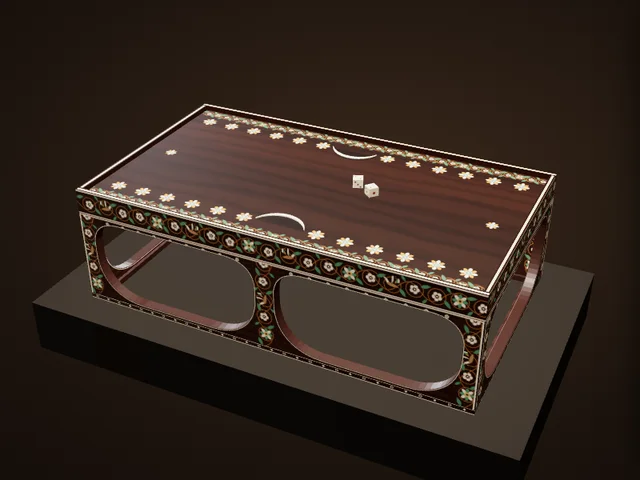
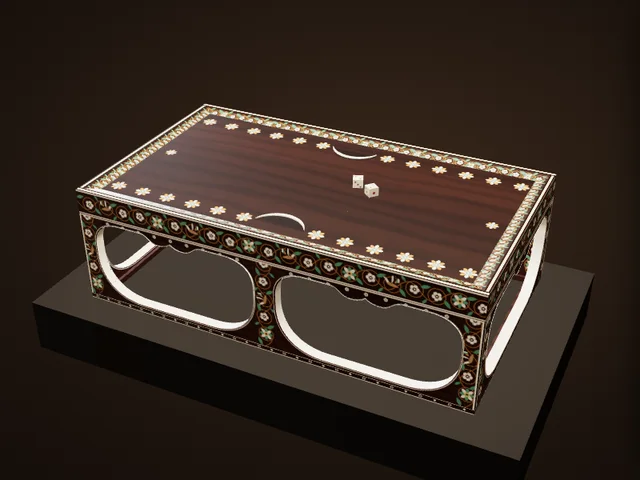
博物館：双六局の縁の斜面・開口部の垂れ飾り・象牙張りの切り口を全体写真に合わせて追加
Claude-Session: https://claude.ai/code/session_01EiWRAZTxRF5M5nk5vdR2jJ

diff --git a/atlas/museum/ex/sugoroku.js b/atlas/museum/ex/sugoroku.js
@@ -60,13 +60,9 @@
         K.grain(g, w, h, { a: '#331a11', b: '#26120b', seed: 44, sx: .3, sy: 9, warp: .2, pores: .003 });   // straight grain along the length
         let y = 0, sd = 3; const rnd = () => (sd = (sd * 16807) % 2147483647) / 2147483647;   // planks along the length, slightly different in tone
         while (y < h) { const ph = s * (4.5 + rnd() * 2.5); g.fillStyle = rnd() < .5 ? `rgba(0,0,0,${rnd() * .18})` : `rgba(120,50,30,${rnd() * .12})`; g.fillRect(0, y, w, ph); g.fillStyle = 'rgba(10,3,2,.5)'; g.fillRect(0, y, w, s * .04); y += ph; }
-        // a band of scroll inside each long rim (seen on the far side in the overall photograph)
-        const band = K.tex(2048, Math.round(2048 * 2.1 / IL), (g2, w2, h2) => scroll(g2, w2, h2, w2 / IL, 9, shT, { per: 3.1, birds: false }));
-        g.globalAlpha = .8; g.drawImage(band.image, 0, 0, w, s * 2.1); g.save(); g.translate(w, h); g.rotate(Math.PI); g.drawImage(band.image, 0, 0, w, s * 2.1); g.restore(); g.globalAlpha = 1;
         // ---- the playing marks (the Shōsōin's overall photograph): along each long side twelve flower "points", six to the left and six to
         // the right of a half-moon; one flower in the middle of each short side. This is the board's layout as a game board (双六).
-        g.fillStyle = 'rgba(0,0,0,.35)'; [s * 2.1, h - s * 2.1 - s * .08].forEach(yy => g.fillRect(0, yy, w, s * .08));   // the foot of the rim's slope
-        const rosette = (fx, fy, r) => { g.save(); g.translate(fx, fy);
+                const rosette = (fx, fy, r) => { g.save(); g.translate(fx, fy);
           for (let q = 0; q < 8; q++) { g.rotate(Math.PI / 4); g.beginPath(); g.moveTo(r * .28, 0); g.quadraticCurveTo(r * .7, r * .42, r, 0); g.quadraticCurveTo(r * .7, -r * .42, r * .28, 0); g.fillStyle = q % 2 ? '#efe6d2' : '#c98a3c'; g.fill(); g.strokeStyle = 'rgba(40,16,8,.6)'; g.lineWidth = s * .03; g.stroke(); }
           g.beginPath(); g.arc(0, 0, r * .36, 0, 6.29); g.fillStyle = '#5f9a8c'; g.fill(); g.strokeStyle = '#efe6d2'; g.lineWidth = s * .06; g.stroke(); g.beginPath(); g.arc(0, 0, r * .12, 0, 6.29); g.fillStyle = '#efe6d2'; g.fill(); g.restore(); };
         const row = s * ROW;
@@ -90,6 +86,12 @@
       const eLs = mk(edgeTex(L, 1)), eWs = mk(edgeTex(W, 2));
       [eLs, eWs].forEach(m => { m.map.repeat.set(1, SL / EDGE); m.map.offset.set(0, 0); });
       add(new TT.BoxGeometry(L, SL, W), [eWs, eWs, shitan, shitan, eLs, eLs], 0, BASE + SL / 2, 0);
+      // the rim's inner face slopes down to the field (the overall photograph): the scroll of flowers runs on that slope, mitred at the corners
+      { const SLW = 2.1, yT = RIM - .02, bandT = K.tex(2048, Math.round(2048 * 2.2 / IL), (g2, w2, h2) => scroll(g2, w2, h2, w2 / IL, 9, shT, { per: 3.1, birds: false })), bm = mk(bandT);
+        const slope = (len, ry, px, pz) => { const q = new TT.BufferGeometry(), a = len / 2, b = len / 2 - SLW;
+          q.setAttribute('position', new TT.Float32BufferAttribute([-a, yT, 0, a, yT, 0, b, .012, -SLW, -b, .012, -SLW], 3)); q.setAttribute('uv', new TT.Float32BufferAttribute([0, 1, 1, 1, b / len + .5, 0, -b / len + .5, 0], 2)); q.setIndex([0, 1, 2, 0, 2, 3]); q.computeVertexNormals();
+          const m = new TT.Mesh(q, bm); m.rotation.y = ry; m.position.set(px, BASE + SL, pz); m.receiveShadow = true; G.add(m); };
+        slope(IL, 0, 0, IW / 2); slope(IL, Math.PI, 0, -IW / 2); slope(IW, Math.PI / 2, IL / 2, 0); slope(IW, -Math.PI / 2, -IL / 2, 0); }
       face.polygonOffset = true; face.polygonOffsetFactor = -2; face.polygonOffsetUnits = -2;
       add(new TT.PlaneGeometry(IL, IW), face, 0, BASE + SL + .004, 0).rotation.x = -Math.PI / 2;
       [eL, eW].forEach(m => { m.map = m.map.clone(); m.map.repeat.set(1, RIM / EDGE); m.map.offset.set(0, SL / EDGE); m.map.needsUpdate = true; });
@@ -106,6 +108,9 @@
         const fx = 6.6, fy = top * .56, tx = 4.0, ty = top * .32, bow = 0;
         p.moveTo(x0 + fx, b0); p.lineTo(x1 - fx, b0); p.bezierCurveTo(x1 - fx * .35, b0, x1 + bow, fy * .45, x1 + bow, fy);
         p.lineTo(x1 + bow, top - ty); p.bezierCurveTo(x1 + bow, top - ty * .4, x1 - tx * .4, top - .3, x1 - tx, top - .3);
+        { const cx = (x0 + x1) / 2, t0 = top - .3;   // the top's hanging bracket: two ogees meeting in a small notch
+          p.lineTo(cx + 4.6, t0); p.bezierCurveTo(cx + 3.4, t0, cx + 3.2, t0 - 1.15, cx + 1.9, t0 - 1.15); p.quadraticCurveTo(cx + .7, t0 - 1.15, cx, t0 - .55);
+          p.quadraticCurveTo(cx - .7, t0 - 1.15, cx - 1.9, t0 - 1.15); p.bezierCurveTo(cx - 3.2, t0 - 1.15, cx - 3.4, t0, cx - 4.6, t0); }
         p.lineTo(x0 + tx, top - .3); p.bezierCurveTo(x0 + tx * .4, top - .3, x0 - bow, top - ty * .4, x0 - bow, top - ty);
         p.lineTo(x0 - bow, fy); p.bezierCurveTo(x0 - bow, fy * .45, x0 + fx * .35, b0, x0 + fx, b0); return p; };
       const skirtFor = (len, n) => { const S = new TT.Shape(); S.moveTo(-len / 2, 0); S.lineTo(len / 2, 0); S.lineTo(len / 2, SK); S.lineTo(-len / 2, SK); S.closePath();
@@ -130,8 +135,13 @@
       }); };
       const baseMat = (len, n, seed) => { const t = baseTex(len, n, seed); t.repeat.set(1 / len, 1 / SK); t.offset.set(.5, 0); return mk(t); };
       const geoFor = (len, n) => new TT.ExtrudeGeometry(skirtFor(len, n), { depth: 1.3, bevelEnabled: true, bevelThickness: .06, bevelSize: .06, bevelSegments: 1, curveSegments: 14 });
-      const gL = geoFor(L, 2), gW = geoFor(W, 1), mL = baseMat(L, 2, 5), mW = baseMat(W, 1, 6);
+      const ivory2 = ivory.clone(); ivory2.side = TT.DoubleSide;
+      const gL = geoFor(L, 2), gW = geoFor(W, 1); gL.userData = { len: L, n: 2 }; gW.userData = { len: W, n: 1 }; const mL = baseMat(L, 2, 5), mW = baseMat(W, 1, 6);
       [[gL, mL, 0, W / 2 - 1.3, 0], [gL, mL, 0, -W / 2 + 1.3, Math.PI], [gW, mW, L / 2 - 1.3, 0, Math.PI / 2], [gW, mW, -L / 2 + 1.3, 0, -Math.PI / 2]].forEach(([geo, m, x, z, ry]) => {
+        // the openings' cut faces are lined with ivory (a ribbon just inside each opening)
+        const S0 = skirtFor(geo.userData.len, geo.userData.n); S0.holes.forEach(hp => { const pts = hp.getPoints(16), cxm = pts.reduce((a, p) => a + p.x, 0) / pts.length, cym = pts.reduce((a, p) => a + p.y, 0) / pts.length, pos = [], idx = [];
+          pts.forEach((p, i) => { const X = cxm + (p.x - cxm) * .985, Y = cym + (p.y - cym) * .985; pos.push(X, Y, -.07, X, Y, 1.37); if (i) { const k = i * 2; idx.push(k - 2, k - 1, k, k - 1, k + 1, k); } });
+          const rb = new TT.BufferGeometry(); rb.setAttribute('position', new TT.Float32BufferAttribute(pos, 3)); rb.setIndex(idx); rb.computeVertexNormals(); const r = new TT.Mesh(rb, ivory2); r.rotation.y = ry; r.position.set(x, RAIL, z); G.add(r); });
         const o = new TT.Mesh(geo, [m, inner]); o.rotation.y = ry; o.position.set(x, RAIL, z); o.scale.x = .9975;   /* (each panel a hair short: its end face lay in the same plane as the next panel's front and the two fought at the corner legs, a flicker at a distance) */ o.castShadow = o.receiveShadow = true; G.add(o); });
       add(new TT.BoxGeometry(L - 2.6, .5, W - 2.6), inner, 0, BASE - .25, 0);
       // the low rail: dark, with ivory edges and a row of ivory dots and little lozenges

diff --git a/atlas/museum/gallery-ja.js b/atlas/museum/gallery-ja.js
@@ -49,7 +49,7 @@
         ['花の目印', '三日月の左右に木画の花が6つずつ、長い辺に12ずつ。駒を並べる位置を示しています。'],
         ['短い辺の花', '短い辺の中央にも花が1つずつあります。'],
         ['盤の側面の花鳥', '盤の側面には、竹の細い線で描いた唐草に象牙の花と緑に染めた鹿角の葉、そして縞模様の翼を広げて飛ぶ鳥の木画。'],
-        ['床脚', '少し明るい色の床脚は、長い辺に大きな刳り形が2つ。くびれた中央の柱と細い隅の脚にも唐草の木画がほどこされています。'],
+        ['床脚', '床脚は、長い辺に大きな刳り形が2つ。くびれた中央の柱と細い隅の脚にも唐草の木画がほどこされています。'],
         ['さいころ（双六頭）', '正倉院には象牙のさいころ「双六頭」も別に伝わります（北倉17、一辺1.3〜1.4cm）。向かい合う面の目を足すと7になるのは今と同じ。ここでは参考に2つ置いています。']],
       model: "寸法は正倉院の記録どおり。形と文様は公開写真に合わせ、細かな木画は簡略にしています。",
       src: [['正倉院「木画紫檀双六局」', 'https://shosoin.kunaicho.go.jp/treasures/?id=0000010086&index=10'], ['正倉院展「悠久の輝き（前編）」（盤面の三日月と花）', 'https://shosoin-ten.jp/articles/detail/000453.html'], ['正倉院展「木画紫檀双六局」', 'https://shosoin-ten.jp/info/treasures/000414/'], ['奈良新聞「時を超えたたからもの(2)」', 'https://www.nara-np.co.jp/news/20251103211942.html']] },

diff --git a/atlas/museum.js b/atlas/museum.js
@@ -32,7 +32,7 @@
   const ROOMS = [
     { id: 'map', ready: () => !!window.AtlasMap, render: (el, c) => AtlasMap.render(el, c) },
     { id: 'tree', src: ['museum/tree.js?v=3'], ready: () => !!window.AtlasTree, render: (el, c) => AtlasTree.render(el, c) },
-    { id: 'gallery', src: ['museum/gallery.js?v=51'], ready: () => !!window.AtlasGallery, render: (el, c) => AtlasGallery.render(el, c) },
+    { id: 'gallery', src: ['museum/gallery.js?v=52'], ready: () => !!window.AtlasGallery, render: (el, c) => AtlasGallery.render(el, c) },
   ];
   const KEY = 'atlas-museum-room';
   const esc = s => String(s == null ? '' : s).replace(/[&<>"]/g, c => ({ '&': '&amp;', '<': '&lt;', '>': '&gt;', '"': '&quot;' }[c]));

diff --git a/atlas/index.html b/atlas/index.html
@@ -2559,7 +2559,7 @@ window.AtlasRgdTimer = function (btn, ms, alive) {
 <link rel="stylesheet" href="worldmap.css?v=19">
 <link rel="stylesheet" href="museum.css?v=4">
 <script src="worldmap.js?v=40"></script>
-<script src="museum.js?v=52"></script>
+<script src="museum.js?v=53"></script>
 <script src="npc/npc.js?v=46"></script>
 <script src="avtalk.js?v=4"></script>
 <script>/* Page states as classes on <html> (2026-11-21) — html.cov-on: the 3D view / Historia / a sheet / a level sheet is open;

diff --git a/atlas/museum/gallery.js b/atlas/museum/gallery.js
@@ -10,7 +10,7 @@
    (a turn, a zoom, the slow turntable) and never while the window is in the background. */
 (function () {
   'use strict';
-  const V = 51;
+  const V = 52;
   /* ---------- the pieces: id, the game it belongs to, its scale (cm per model unit), the camera's start, the details ----------
      lock: { game, ach } → open after that many achievements of the game. src: the files the piece needs (besides ex/<id>.js) */
   const EX = [

diff --git a/claude/museum-spec.md b/claude/museum-spec.md
@@ -70,6 +70,7 @@
     - セネト盤の銘文：グリフィス研究所のカーターの記録カード345-06（箱の文字の写し）に従い、王の五つの名を実際の順で刻む（引き出し側の側面は右から左へ読む向き、王名の輪は左端）。引き出しの口のまわりにも枠状の銘文。引き出しの前板は無地。
     - 木画紫檀棊局：斜め写真から測って、胴5.3cm・開口部5.4cm・床の枠1.0cmに。開口部は正倉院の細部写真（CO0000000428〜430）に合わせ、両端が丸くふくらみ（脚は上3分の2あたりが最も細く、足元へ広がる）、上辺は7つの弧が並んで先が下がる形（先の版の「側辺がまっすぐ」は誤り）。側面の鳥獣は象牙色の地に色をぼかし、細かい点を打つ（撥鏤風）。隅の脚と中央の柱を細く。側面の動物は小さく、色を抑えた。
     - **木画紫檀双六局の盤面（必須・ゲーム盤としての要件、2026-11-22 ユーザー指示）**：長辺ごとに花形の目が12（中央の半月をはさんで左6・右6）、短辺の中央に花形が1つずつ。半月は象牙の立ち上がった弧で、角を縁の側へ向け、内側は空き。目の数・並び・半月の位置は変えない（ROW・P0・PS の定数）。
+    - 木画紫檀双六局（全体写真に合わせた形）：縁の内側は盤面へ下る斜面で、唐草はその斜面に（四隅は留め）。開口部の上辺中央に波形の垂れ飾り、開口部の切り口は象牙張り。
     - 木画紫檀双六局：台（脚）も胴と同じ濃い紫檀色に。柱は中ほどがくびれて足元へ長く・上へ短く広がる形、開口部の縁は象牙の細線。唐草の茎は橙がかった細線、葉は青緑。
     - ダイスタワー：博物館写真に合わせて描き直し（青灰色の錫引き、正面板は階段の上で終わる、太い等幅の大文字、側面は四弁の小孔＋八弁ロゼットの方形2段、松かさ3つ、右前の玉縁、丸い4段の階段、鈴）。
     - オスマン盤バックギャモン面：V&A カラー写真 2012FP3720 を測って描き直し（杯＋首＋肩つきの穂先の糸杉形、点の間の貝の板の帯、穂先の下のパルメットと持ち送り・尖頭アーチ、中央の狭・広・狭の3帯）。
